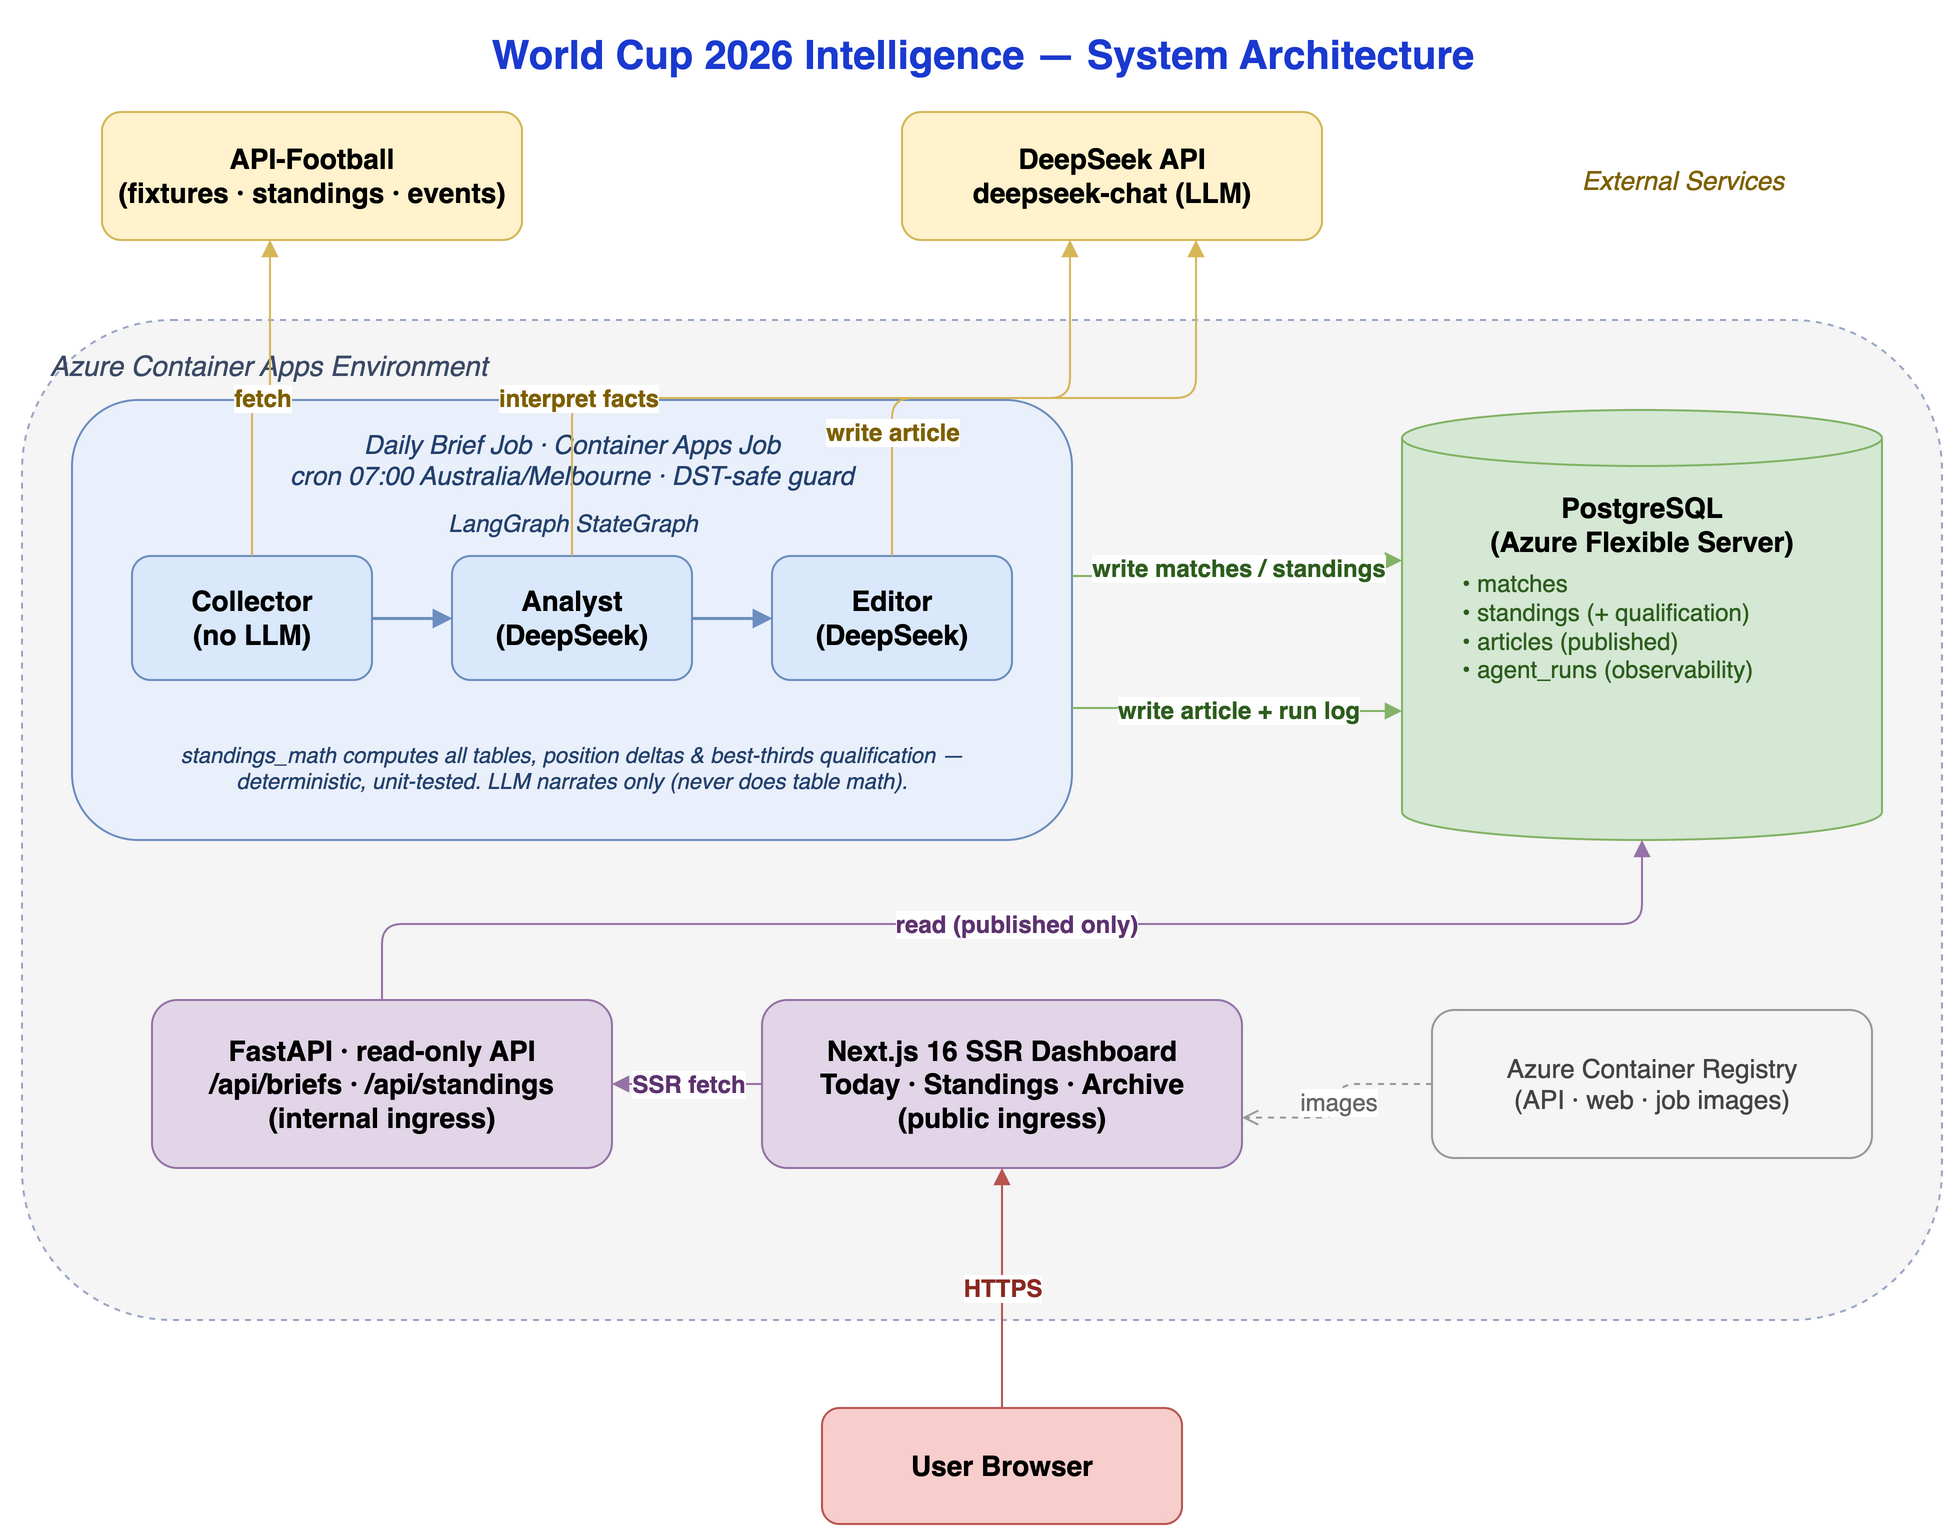
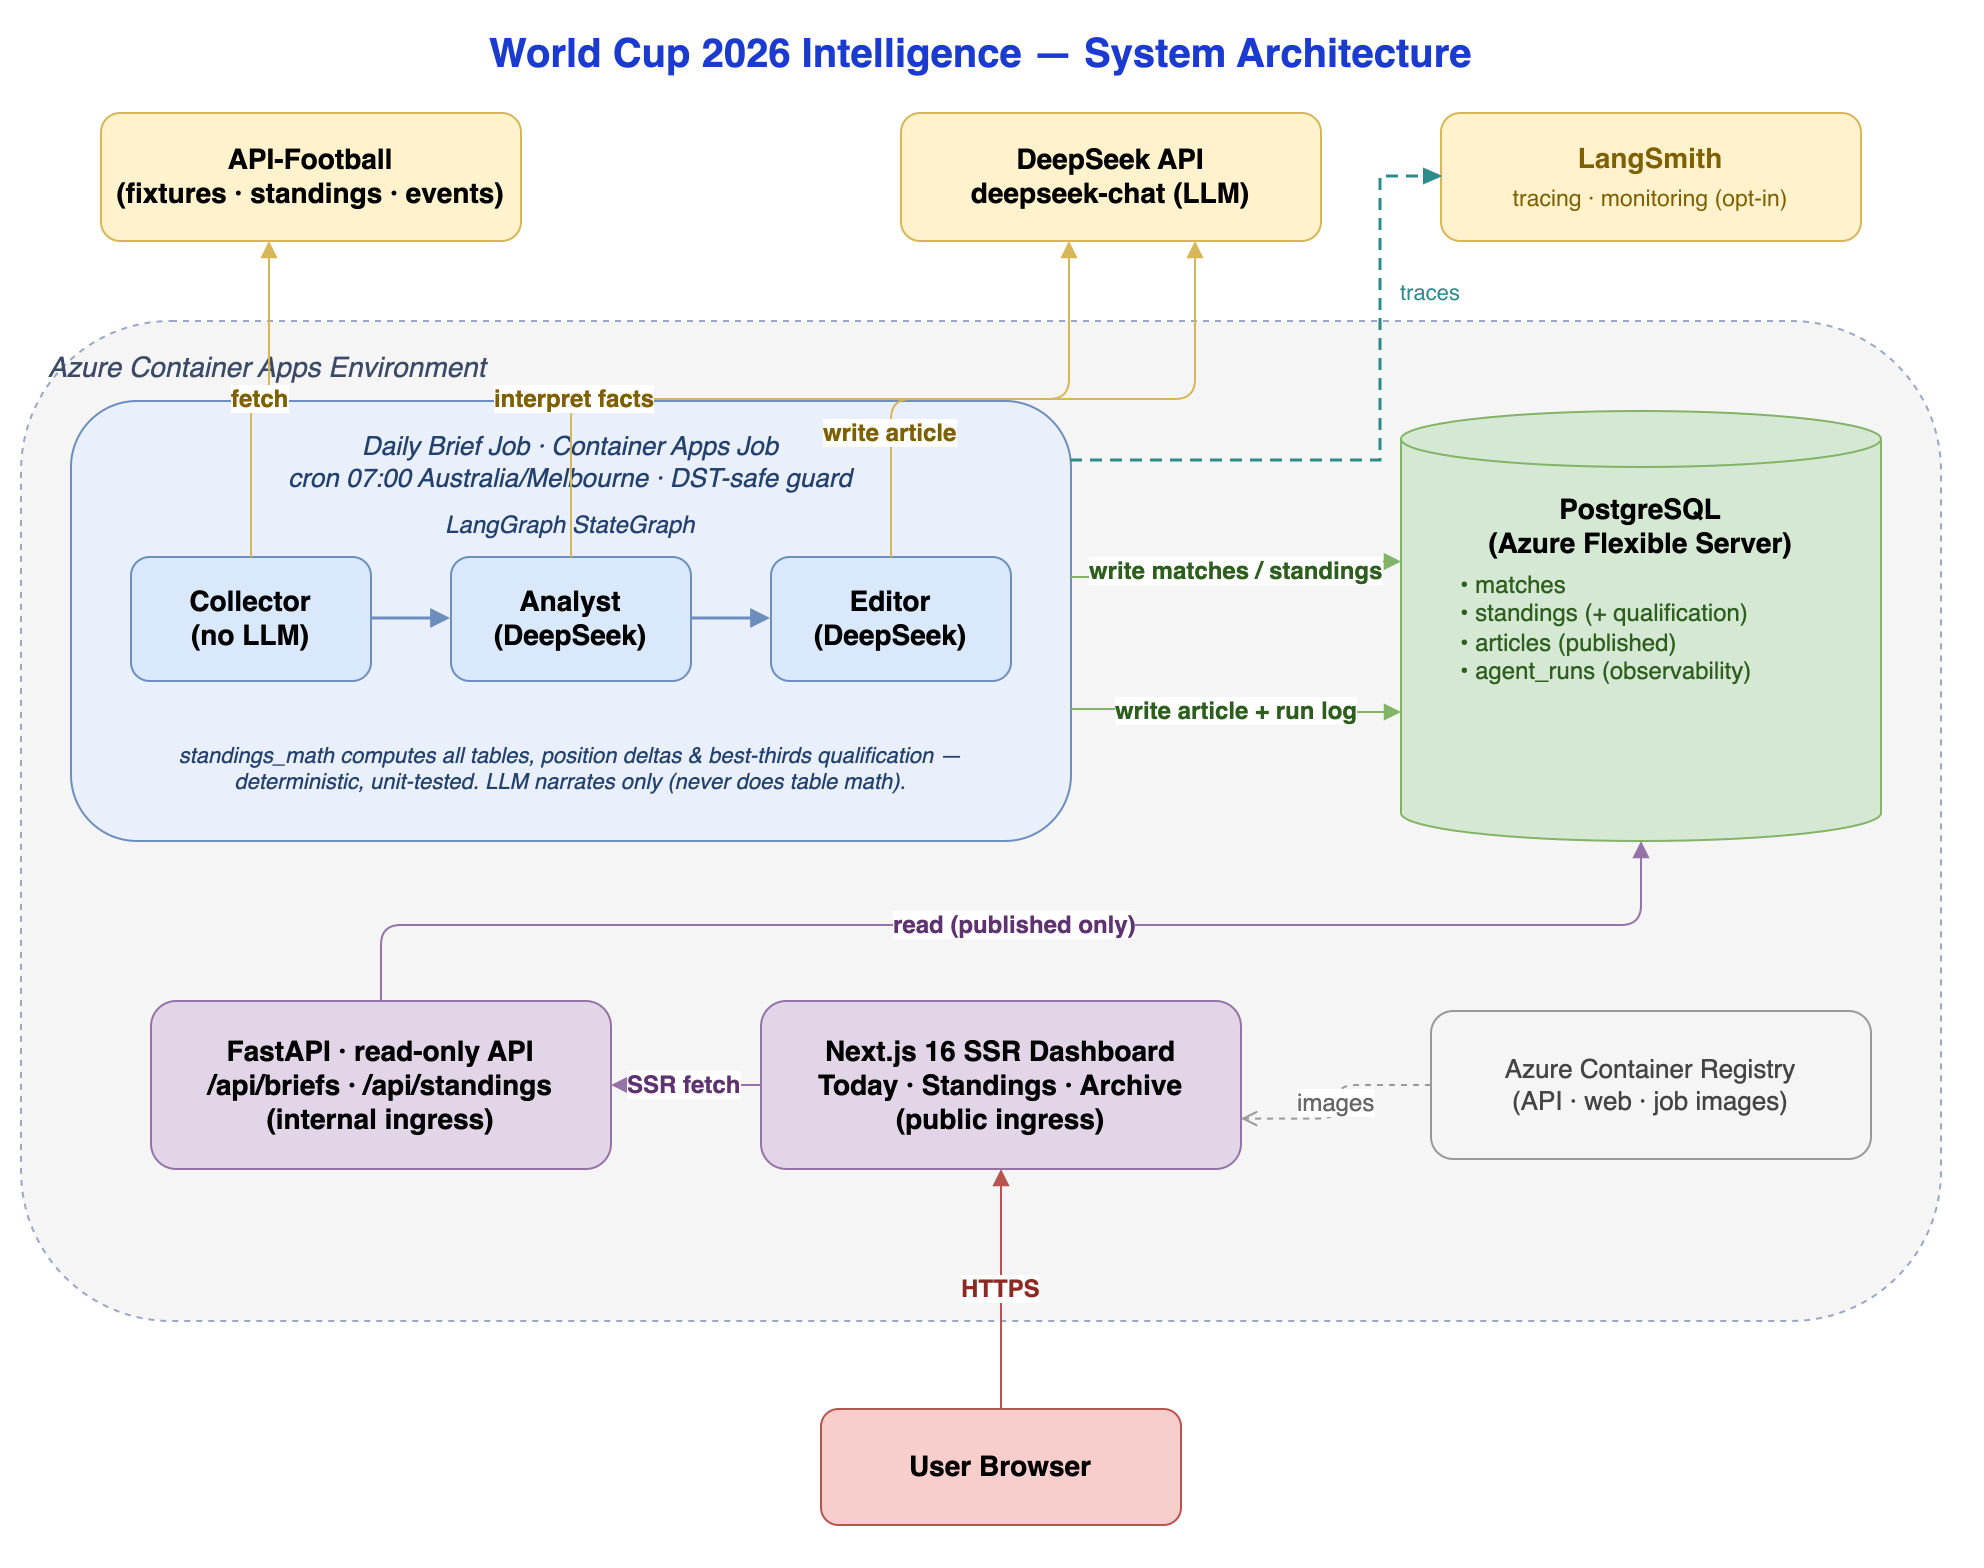
docs(readme): add app screenshots and LangSmith to architecture diagram
- add Today/Standings/Fixtures screenshots under ck_docs/screenshots
- add a LangSmith (tracing · monitoring) node + dashed "traces" edge to the
  architecture diagram (drawio source + regenerated svg/png)
- note the agent_runs + optional LangSmith observability paths in the README

Claude-Session: https://claude.ai/code/session_018KRJ4jg6EtP9AYPXPhxVF9

diff --git a/README.md b/README.md
@@ -2,11 +2,26 @@
 
 Hourly AI-generated FIFA WC 2026 intelligence pipeline.
 
+## Screenshots
+
+**Today** — AI-generated daily brief, live match, latest results, and what's at stake:
+
+![Home dashboard](ck_docs/screenshots/home.png)
+
+**Standings** (all 12 groups — deterministic tables + recent-form sparklines) and **Fixtures**:
+
+<p>
+  <img src="ck_docs/screenshots/standings.png" width="49%" alt="Standings — 12 group tables with form" />
+  <img src="ck_docs/screenshots/fixtures.png" width="49%" alt="Fixtures — upcoming matches by day" />
+</p>
+
 ## Architecture
 
 ![World Cup 2026 Intelligence — System Architecture](ck_docs/diagrams/architecture.png)
 
 A **scheduler** container runs a **LangGraph** pipeline (`Collector → Analyst → Editor`) on an interval. The Collector pulls fixtures/standings from **API-Football** and computes all tables, position deltas, and best-thirds qualification deterministically in `standings_math` (unit-tested); the **DeepSeek** LLM only narrates the pre-computed facts. Results persist to **PostgreSQL**; the article is published only after the Editor succeeds (keep-last-good). A read-only **FastAPI** serves briefs/standings to the **Next.js 16 SSR** dashboard.
+
+Pipeline runs are observable two ways: every run records timings, tokens, and cost to the `agent_runs` table (surfaced at `/logs`), and — when `LANGSMITH_TRACING` is enabled — full LLM traces stream to **LangSmith** for live monitoring. Tracing is off by default; see [`ck_docs/deployment-guide.md`](ck_docs/deployment-guide.md) §6.5.
 
 The whole stack runs as one `docker-compose` deployment on a single Azure VM behind Caddy (TLS). See [docs/deployment.md](docs/deployment.md).
 